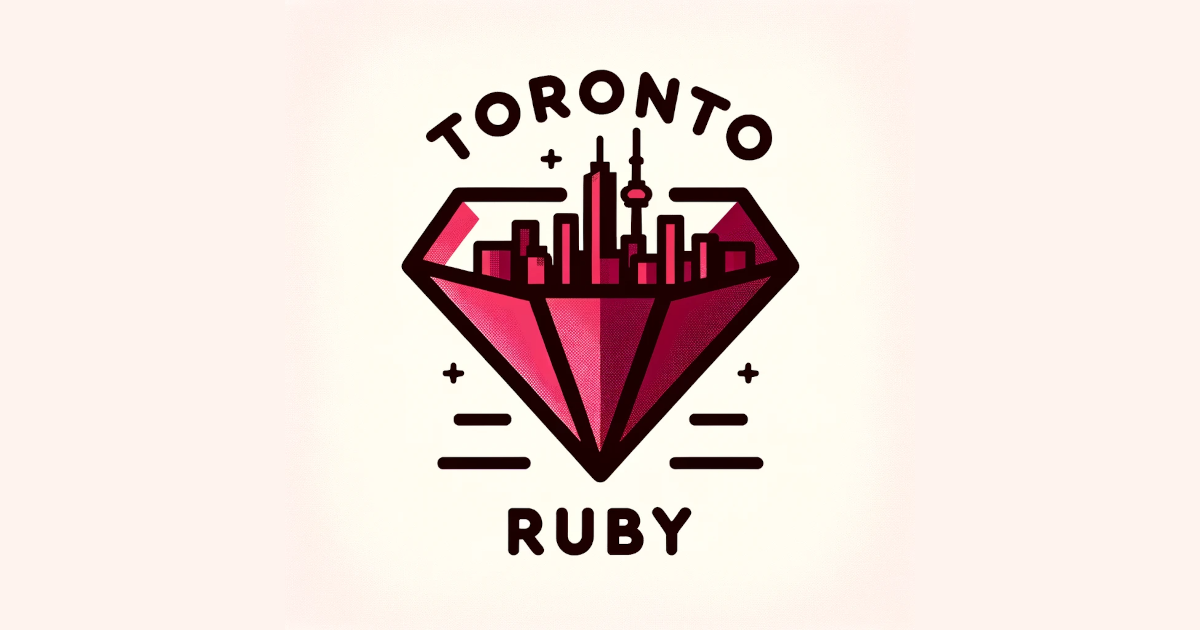
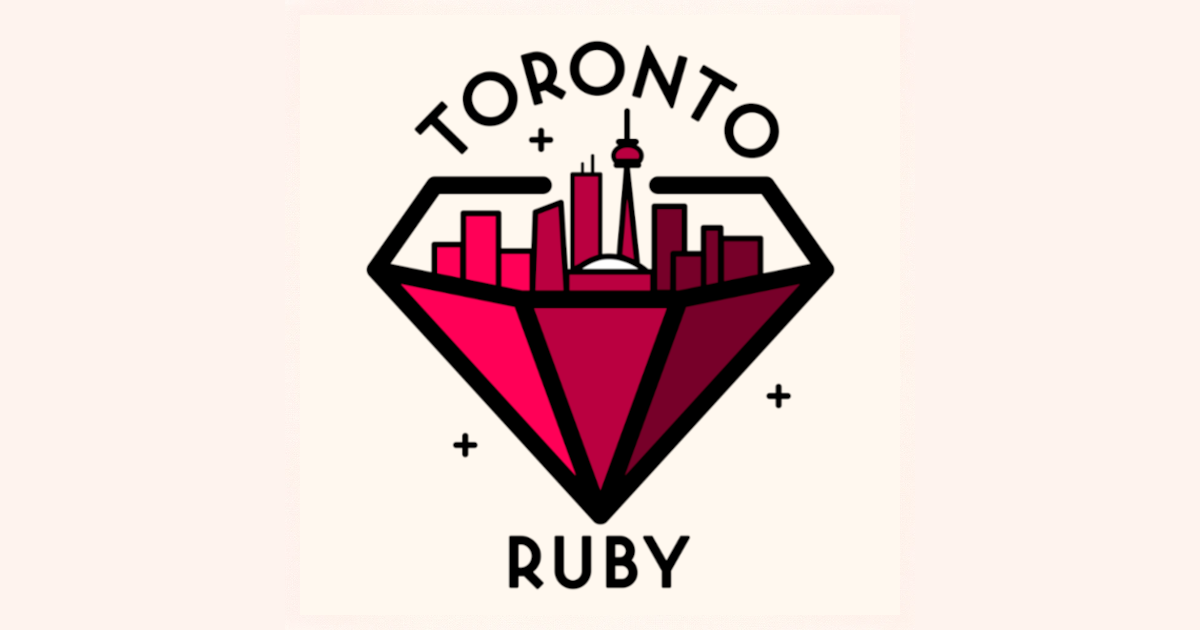
Update Assets and use external links class (#79)
* Add External Link Indicator

* Adds CSS for ::after psuedo to use an icon to indicate external Link
* Adds a controller to automatically process links to add target blank
* Update event description to always use external links with target
  blank

WIP: Flash of unstyled SVG on load - how to I fix this?

* Update logo, favicon and OG share assets

Changed region(s): [[0.3083, 0.0603, 0.7092, 0.9349]]

diff --git a/app/assets/stylesheets/application.tailwind.css b/app/assets/stylesheets/application.tailwind.css
@@ -21,3 +21,13 @@
 .coc p {
   @apply mb-2;
 }
+
+a.external-link::after {
+  content: '';
+  display: inline-block;
+  width: 1em;
+  height: 1em;
+  margin-left: 0.25em;
+  background-size: 1em;
[1 lines of base64/hex data omitted]
+}

diff --git a/app/javascript/controllers/new_tab_links_controller.js b/app/javascript/controllers/new_tab_links_controller.js
@@ -1,0 +1,15 @@
+import { Controller } from "@hotwired/stimulus"
+
+export default class extends Controller {
+  static targets = ['container'];
+
+  connect() {
+    console.log("Links controller connect")
+    if (this.hasContainerTarget) {
+      this.containerTarget.querySelectorAll('a').forEach((link) => {
+        link.setAttribute('target', '_blank');
+        link.classList.add('external-link')
+      });
+    }
+  }
+}

diff --git a/app/javascript/controllers/index.js b/app/javascript/controllers/index.js
@@ -6,3 +6,6 @@ import { application } from "./application"
 
 import ClipboardController from "./clipboard_controller"
 application.register("clipboard", ClipboardController)
+
+import NewTabLinksController from "./new_tab_links_controller"
+application.register("new-tab-links", NewTabLinksController)
